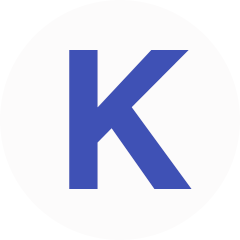
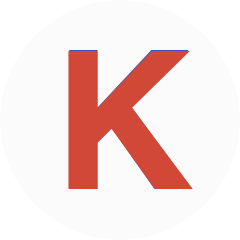
styles config

Changed region(s): [[0.2625, 0.2042, 0.8167, 0.7875]]

diff --git a/src/components/Contact/styles.scss b/src/components/Contact/styles.scss
@@ -49,7 +49,7 @@
     text-transform: uppercase;
     letter-spacing: 0;
     color: rgb(255,255,255);
-    background-color: #3f51b5;
+    background-color: #bc5556;
     cursor: pointer;
     text-decoration: none;
     text-align: center;

diff --git a/src/components/CircleBtn/Circle.vue b/src/components/CircleBtn/Circle.vue
@@ -24,7 +24,7 @@ export default {
   margin-right: 40px;
   margin-bottom: 40px;
   z-index: 900;
-  background-color: rgb(255,64,129);
+  background-color: #d14836;
   border-radius: 50%;
   font-size: 24px;
   height: 56px;

diff --git a/src/components/Header/Header.vue b/src/components/Header/Header.vue
@@ -23,7 +23,7 @@ header {
   border: none;
   min-height: 64px;
   z-index: 3;
-  background-color: rgb(63,81,181);
+  background-color: #2c3e50;
   color: rgb(255,255,255);
 }
 

diff --git a/src/components/Resume/styles.scss b/src/components/Resume/styles.scss
@@ -92,3 +92,10 @@
     }
   }
 }
+
+@media (max-width: 500px) {
+  .resume {
+    display: block;
+    padding: 0;
+  }
+}

diff --git a/src/components/LeftPanel/styles.scss b/src/components/LeftPanel/styles.scss
@@ -1,5 +1,5 @@
 .leftCol {
-  width: 445px;
+  min-width: 445px;
   flex: 1;
   height: 100%;
   padding: 0;
